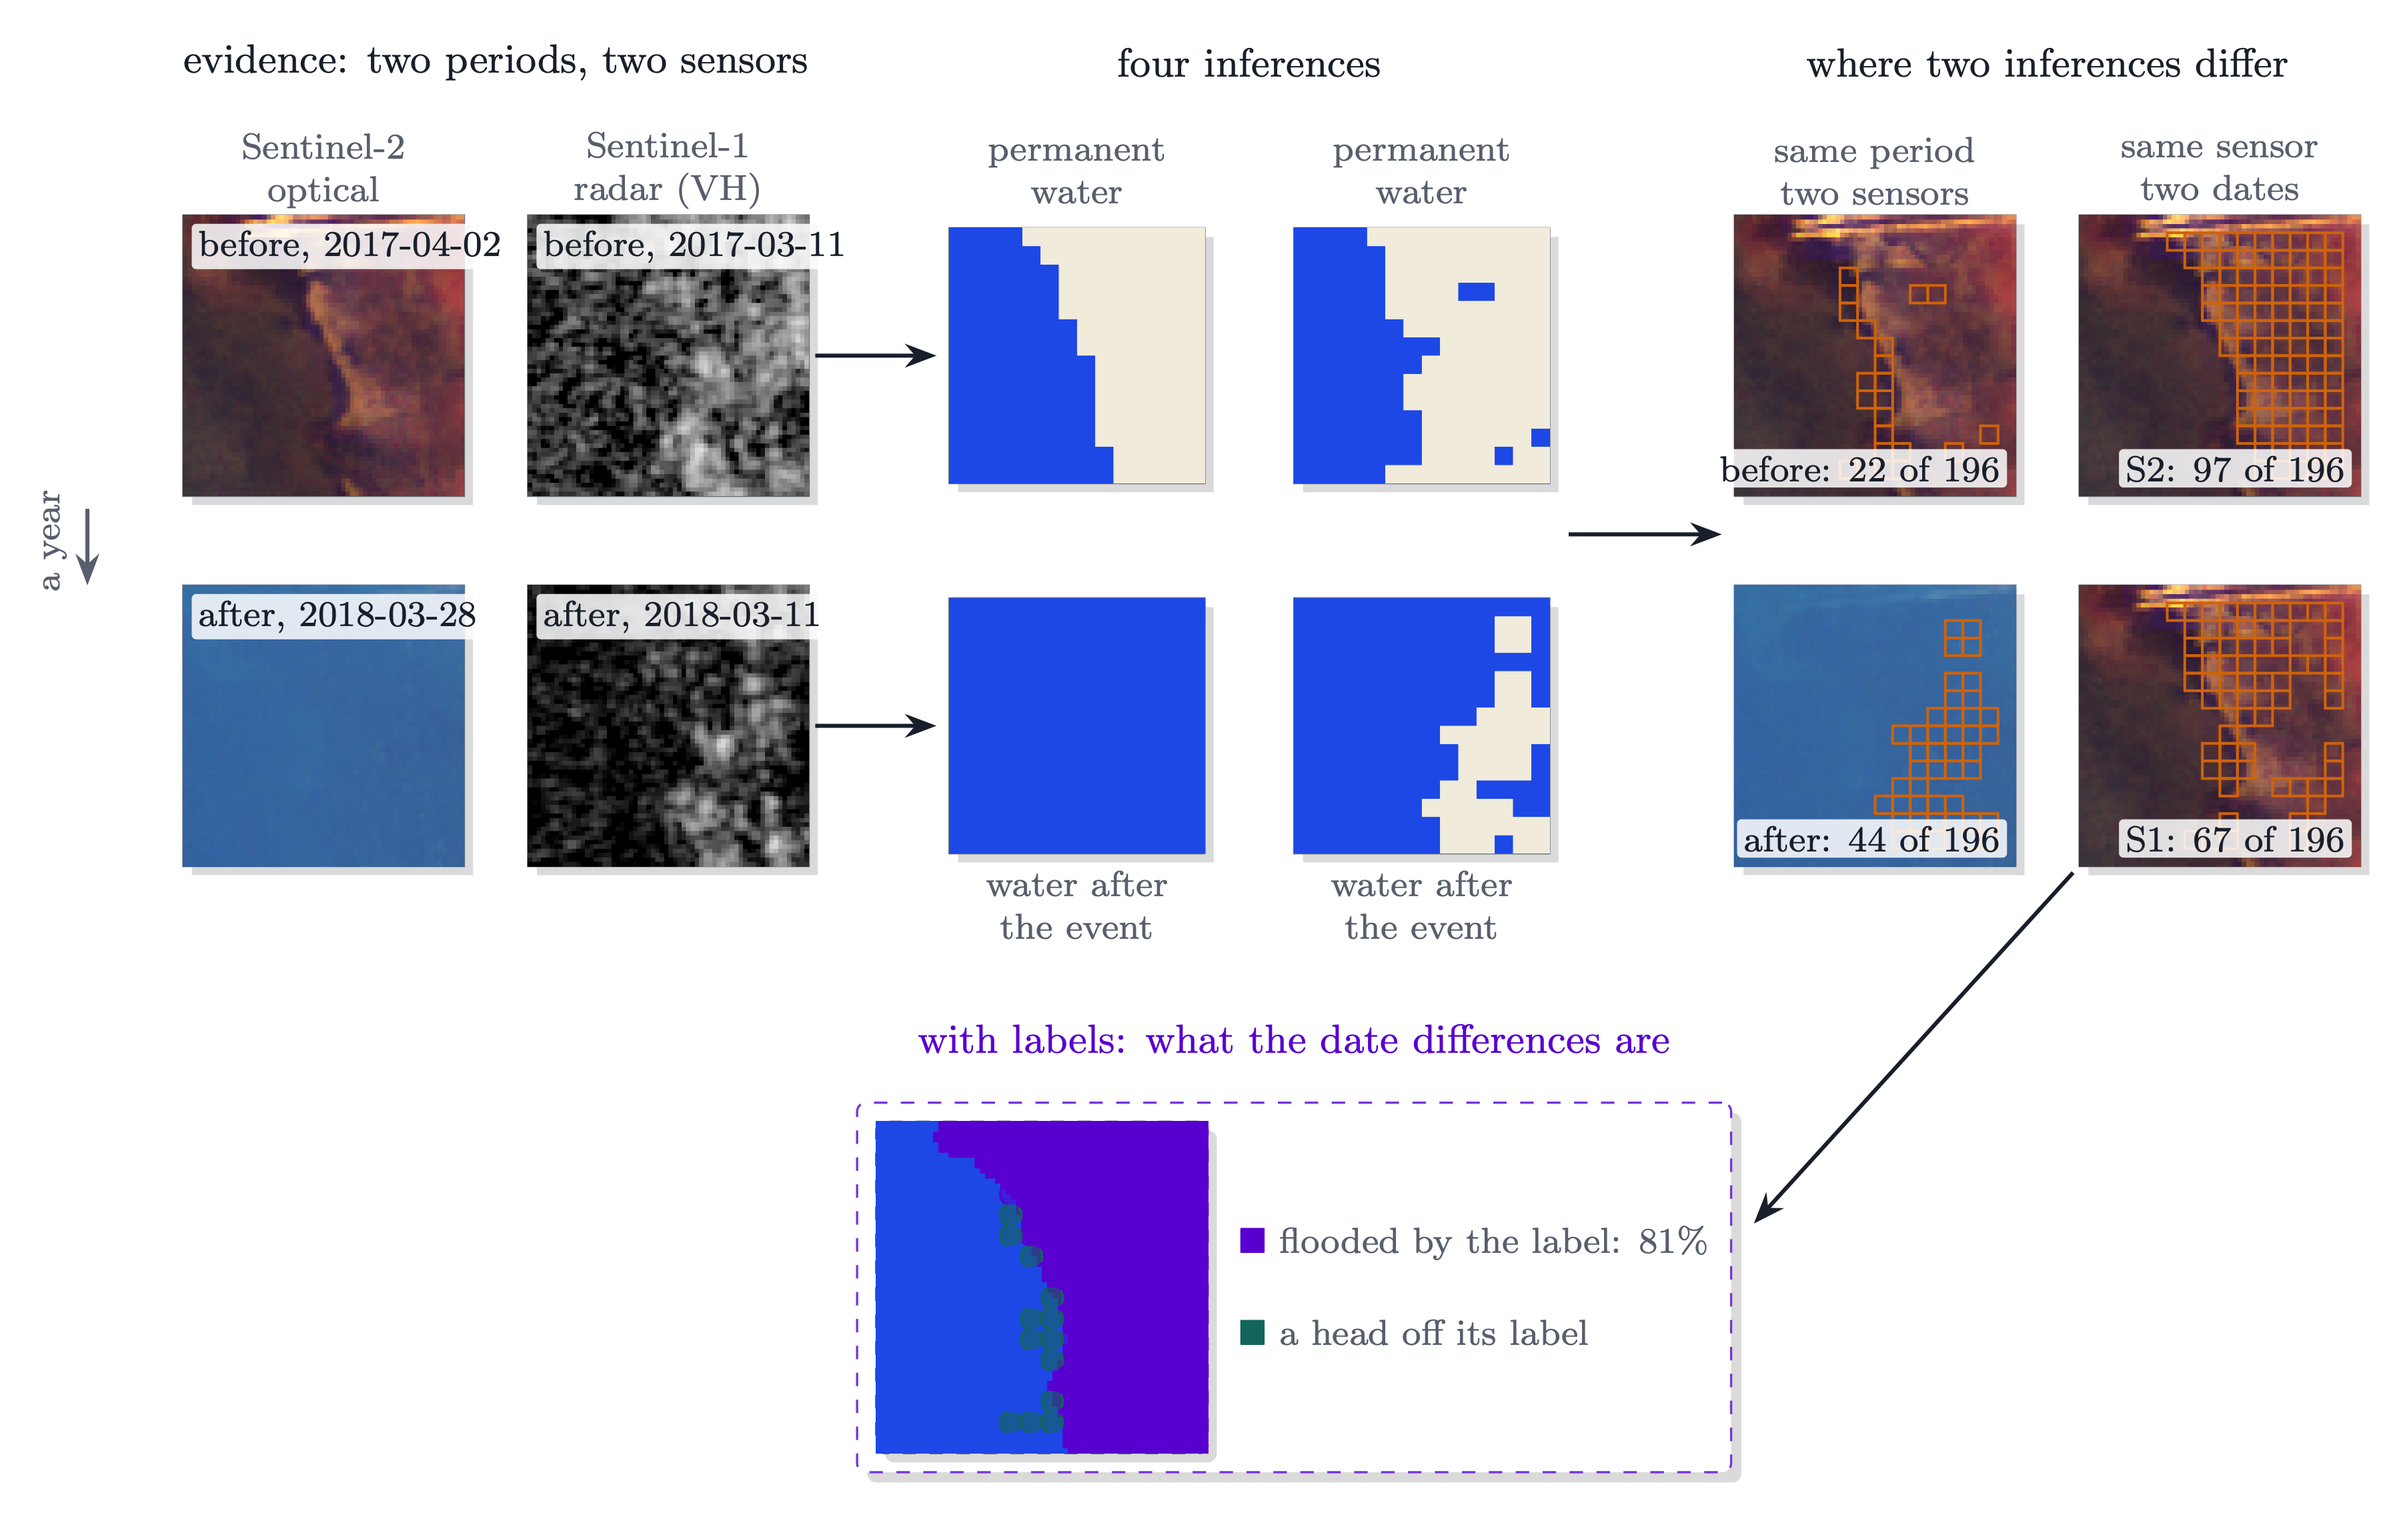
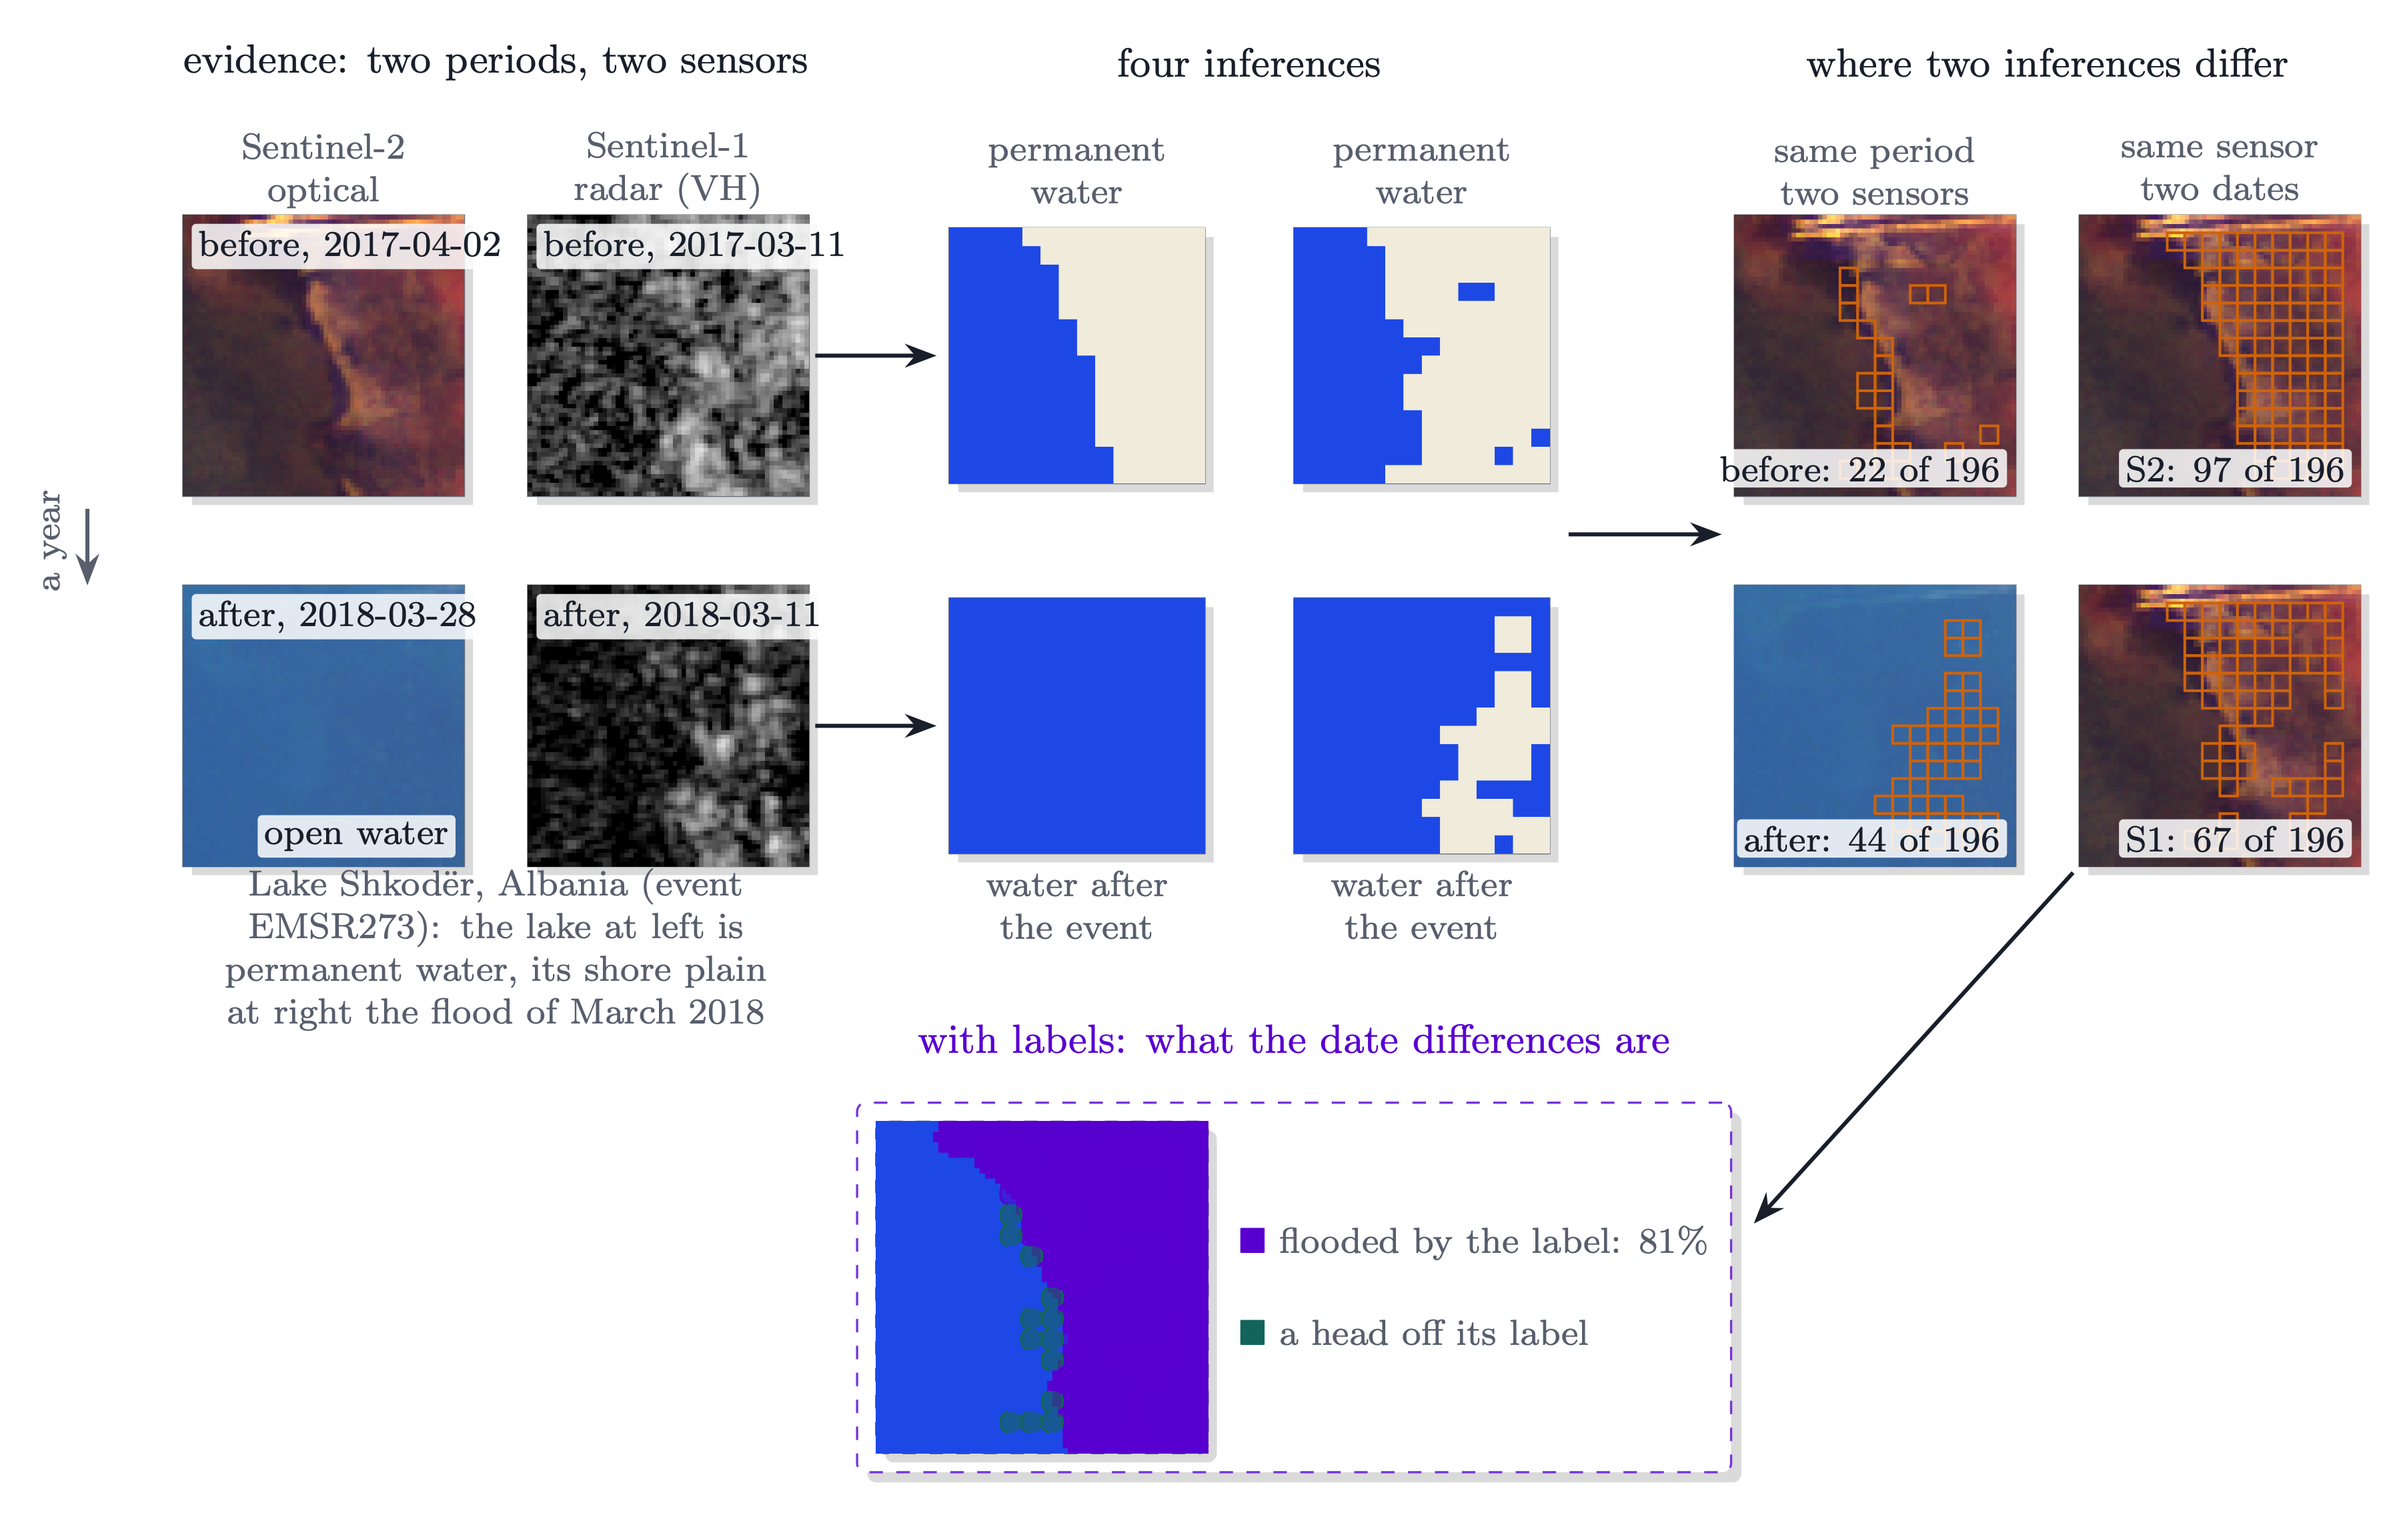
docs: the comparison figure names its scene, Lake Shkodër at Gruemirë (event EMSR273): the lake at left is permanent water, its shore plain at right the flood of March 2018; the after-event optical panel is tagged open water; every caption that called it a lagoon corrected (the AoI centre reverse-ge

Changed region(s): [[0.0933, 0.5245, 0.3111, 0.6787]]

diff --git a/docs/figures/tikz/compare_inferences.tex b/docs/figures/tikz/compare_inferences.tex
@@ -1,5 +1,5 @@
 % The two-period, two-sensor square on one scene (oe_inferencex.compare; exp60, exp62), real rasters only: GEOID-Flood
-% event EMSR273-1 (Grile), a chip with all four cells, a river, permanent water and a flood boundary. Left: the four pieces of evidence, rows by date and
+% event EMSR273-1 (Gruemirë on Lake Shkodër), a chip with all four cells: the lake, permanent water, and its flooded shore. Left: the four pieces of evidence, rows by date and
 % columns by sensor, with their dates. Middle: the four decisions on identical windows. Right: the four differences
 % that each isolate one axis, same date across sensors (two rows) and same sensor across dates (two columns), drawn on
 % the scene; then the label bridge, boxed apart because it needs labels. The elaboration lives under the figure.
@@ -37,6 +37,8 @@
   \node[tag, anchor=north west] at ($(e12.north west)+(0.06,-0.06)$) {before, \cmpDateSOnePre};
   \node[tag, anchor=north west] at ($(e21.north west)+(0.06,-0.06)$) {after, \cmpDateSTwoPost};
   \node[tag, anchor=north west] at ($(e22.north west)+(0.06,-0.06)$) {after, \cmpDateSOnePost};
+  \node[sub, align=center, text width=5.4cm] at (2.75,1.75) {Lake Shkod\"er, Albania (event EMSR273): the lake at left is permanent water, its shore plain at right the flood of March 2018};
+  \node[tag, anchor=south east] at ($(e21.south east)+(-0.06,0.06)$) {open water};
   \draw[tflow] (-0.45,5.2) -- (-0.45,4.6);
   \node[sub, rotate=90] at (-0.7,4.95) {a year};
   % ================= inferences, same arrangement

diff --git a/docs/figures/tikz/make_compare_rasters.py b/docs/figures/tikz/make_compare_rasters.py
@@ -1,5 +1,5 @@
 """Rasters and numbers for the comparison diagram (compare_inferences.tex): the two-period, two-sensor square on one
-GEOID-Flood chip where all four cells exist, event EMSR273-1 (Grile, Albania), tile EMSR273-1-0, rows 512-575,
+GEOID-Flood chip where all four cells exist, event EMSR273-1 (Gruemirë on Lake Shkodër, Albania), tile EMSR273-1-0, rows 512-575,
 columns 512-575: exp62 chip 7 (its exp60 index is stored in exp/out/exp62_masks.npz). Evidence: the Sentinel-2
 composite and the Sentinel-1 pass of the pre-event date, the Sentinel-1 pass after the event (GEOID), and WorldFloods
 v2's Sentinel-2 scene of 2018-03-28 (the fourth cell, exp62). Decisions: exp60's three (exp/out/exp60_masks.npz) and

diff --git a/docs/figures/tikz/DIAGRAMS.md b/docs/figures/tikz/DIAGRAMS.md
@@ -8,7 +8,7 @@ for rasters, geometric shapes for the model parts, few words.
 |---|---|
 | `audit_pipeline.tex` | Sentinel-2 bands in, frozen encoder and head, prediction / confidence / boundary layers, the review set at a 5% budget (boundary first) on the scene, the reasons card, the reviewer |
 | `explanation_layer.tex` | one flood tile with the review set and the true errors, one flagged window traced through the four cue layers, the measured enrichment per cue as bars |
-| `compare_inferences.tex` | the two-period, two-sensor square on one GEOID-Flood chip (event EMSR273-1, Grile, exp62 chip 7: a lagoon shore with permanent water and a flood boundary): the four pieces of evidence with their dates (the Sentinel-2 composite and the Sentinel-1 pass before the event from GEOID, the Sentinel-1 pass after it, and WorldFloods v2's Sentinel-2 scene of 2018-03-28), the four decisions on identical windows, the four differences that each isolate one axis drawn on the scene (same period across sensors, same sensor across dates), and the label bridge boxed apart; imagery from `rasters/cmp_square7.npz` (cut once on the cluster), decisions from `exp/out/exp60_masks.npz` and `exp/out/exp62_masks.npz`, numbers from `make_compare_rasters.py` (exp60, exp62) |
+| `compare_inferences.tex` | the two-period, two-sensor square on one GEOID-Flood chip (event EMSR273-1, Gruemirë on Lake Shkodër, exp62 chip 7: the lake, permanent water, and its flooded shore): the four pieces of evidence with their dates (the Sentinel-2 composite and the Sentinel-1 pass before the event from GEOID, the Sentinel-1 pass after it, and WorldFloods v2's Sentinel-2 scene of 2018-03-28), the four decisions on identical windows, the four differences that each isolate one axis drawn on the scene (same period across sensors, same sensor across dates), and the label bridge boxed apart; imagery from `rasters/cmp_square7.npz` (cut once on the cluster), decisions from `exp/out/exp60_masks.npz` and `exp/out/exp62_masks.npz`, numbers from `make_compare_rasters.py` (exp60, exp62) |
 | `protocol.tex` | a candidate signal next to the model's confidence and the no-model control, scored on both references on identical windows; the verdict; labels grade, never train |
 
 Build:

diff --git a/docs/Usage.md b/docs/Usage.md
@@ -76,12 +76,12 @@ Grade on expert labels; never train a rule on them.
 
 ![The two-period, two-sensor square on one GEOID-Flood chip: four dated inputs, four inferences on identical windows, the same-date and same-sensor differences on the scene, and the label bridge boxed apart](figures/compare.png)
 
-*One GEOID-Flood chip (event EMSR273-1, Grile; exp62 chip 7) with all four cells: the Sentinel-2 composite
+*One GEOID-Flood chip (event EMSR273-1, Gruemirë on Lake Shkodër; exp62 chip 7) with all four cells: the Sentinel-2 composite
 dated 2017-04-02 and the Sentinel-1 pass of 2017-03-11 read by the permanent-water heads, the Sentinel-1
 pass of 2018-03-11 read by the water-after head (exp60), and WorldFloods v2's Sentinel-2 L1C scene of
 2018-03-28 read by the post-event optical head exp62 fitted on other activations (radar shown as VH
-backscatter, open water dark, flooded vegetation bright). The lagoon on the left is permanent water, the
-right half is flooded by the label. The same-period pairs differ on 22 windows before the event and 44
+backscatter, open water dark, flooded vegetation bright). The lake on the left is permanent water, its
+shore plain on the right is flooded by the label. The same-period pairs differ on 22 windows before the event and 44
 after: the shore, and the flooded vegetation the radar head does not call water. The same-sensor pairs
 differ on 97 (optical) and 67 (radar) windows; 81% of the radar's are the flood by the label and the rest
 a head off its label at the shore. Over the 544 chips with all four cells the pre-event optical head is

diff --git a/README.md b/README.md
@@ -25,10 +25,10 @@ the model. Given a prediction map, it helps with:
 
 <img src="docs/figures/compare.png" alt="The two-period, two-sensor square on one GEOID-Flood chip: four dated inputs, four inferences on identical windows, the same-date and same-sensor differences on the scene, and the label bridge boxed apart" width="760">
 
-*The two-period, two-sensor square on one GEOID-Flood chip (event EMSR273-1, a lagoon shore at Grile,
-Albania): the Sentinel-2 composite and the Sentinel-1 pass before the event, the Sentinel-1 pass after it
+*The two-period, two-sensor square on one GEOID-Flood chip (event EMSR273-1, the shore of Lake Shkodër
+at Gruemirë, Albania): the Sentinel-2 composite and the Sentinel-1 pass before the event, the Sentinel-1 pass after it
 and, from WorldFloods v2, the Sentinel-2 scene after it, each read by its head on identical windows. The
-same-period pairs differ on 22 windows before the event and 44 after, along the shore and where the radar
+same-period pairs differ on 22 windows before the event and 44 after, along the lake shore and where the radar
 sees flooded vegetation as bright; the same-sensor pairs differ on 97 windows (optical) and 67 (radar), and
 the label says 81% of the radar's date differences are the flood, the rest a head off its label at the
 shore. Over exp60's 55 events the same-period pair before the event differs on 4.9% of windows and 0.4%

diff --git a/docs/index.md b/docs/index.md
@@ -25,10 +25,10 @@ the model. Given a prediction map, it helps with:
 
 ![The two-period, two-sensor square on one GEOID-Flood chip: four dated inputs, four inferences on identical windows, the same-date and same-sensor differences on the scene, and the label bridge boxed apart](figures/compare.png)
 
-*The two-period, two-sensor square on one GEOID-Flood chip (event EMSR273-1, a lagoon shore at Grile,
-Albania): the Sentinel-2 composite and the Sentinel-1 pass before the event, the Sentinel-1 pass after it
+*The two-period, two-sensor square on one GEOID-Flood chip (event EMSR273-1, the shore of Lake Shkodër
+at Gruemirë, Albania): the Sentinel-2 composite and the Sentinel-1 pass before the event, the Sentinel-1 pass after it
 and, from WorldFloods v2, the Sentinel-2 scene after it, each read by its head on identical windows. The
-same-period pairs differ on 22 windows before the event and 44 after, along the shore and where the radar
+same-period pairs differ on 22 windows before the event and 44 after, along the lake shore and where the radar
 sees flooded vegetation as bright; the same-sensor pairs differ on 97 windows (optical) and 67 (radar), and
 the label says 81% of the radar's date differences are the flood, the rest a head off its label at the
 shore. Over exp60's 55 events the same-period pair before the event differs on 4.9% of windows and 0.4%
